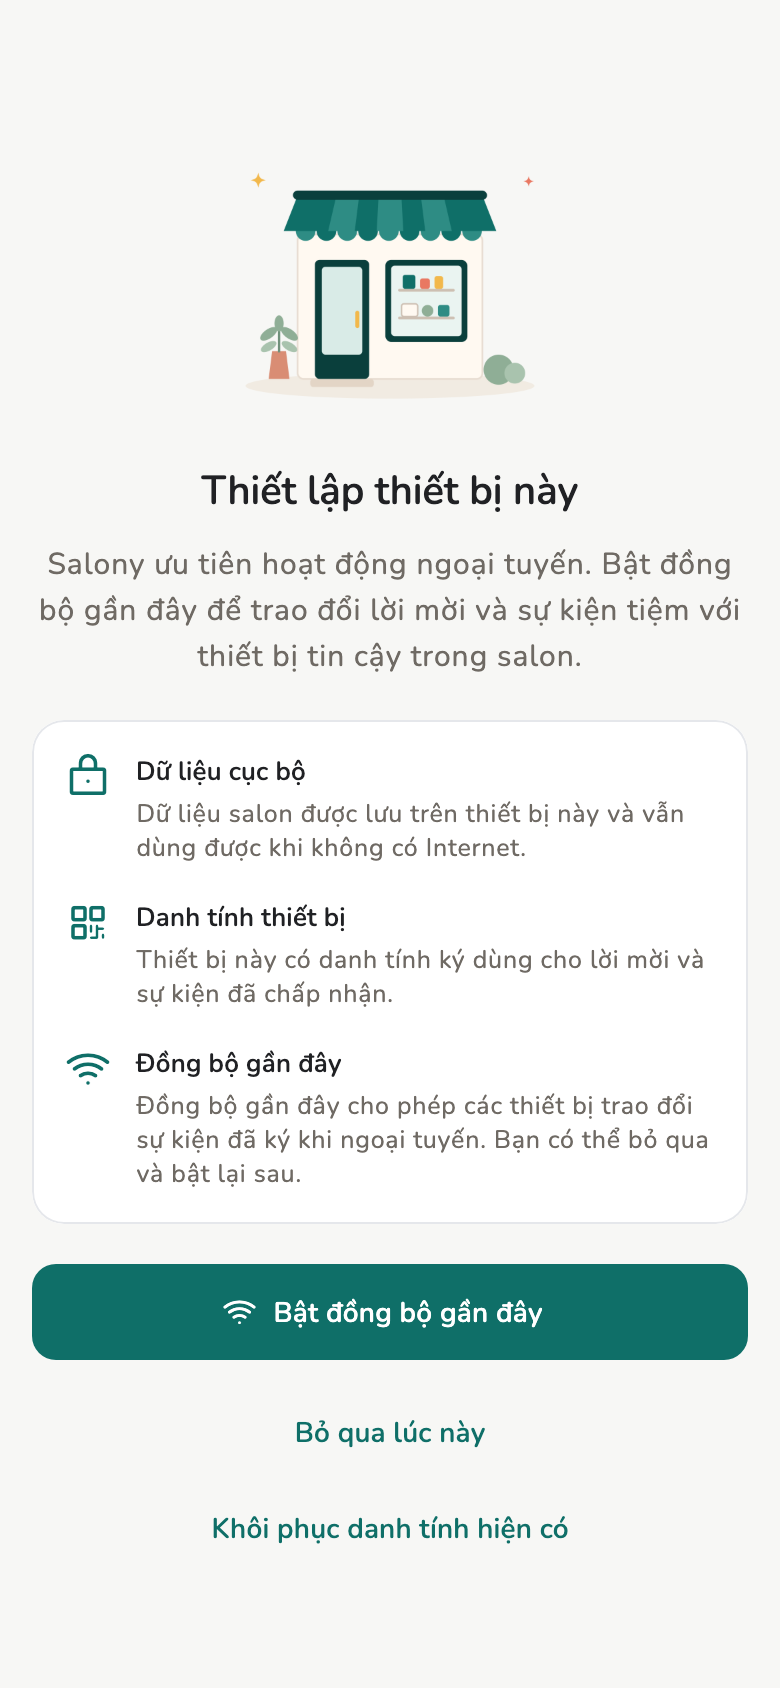
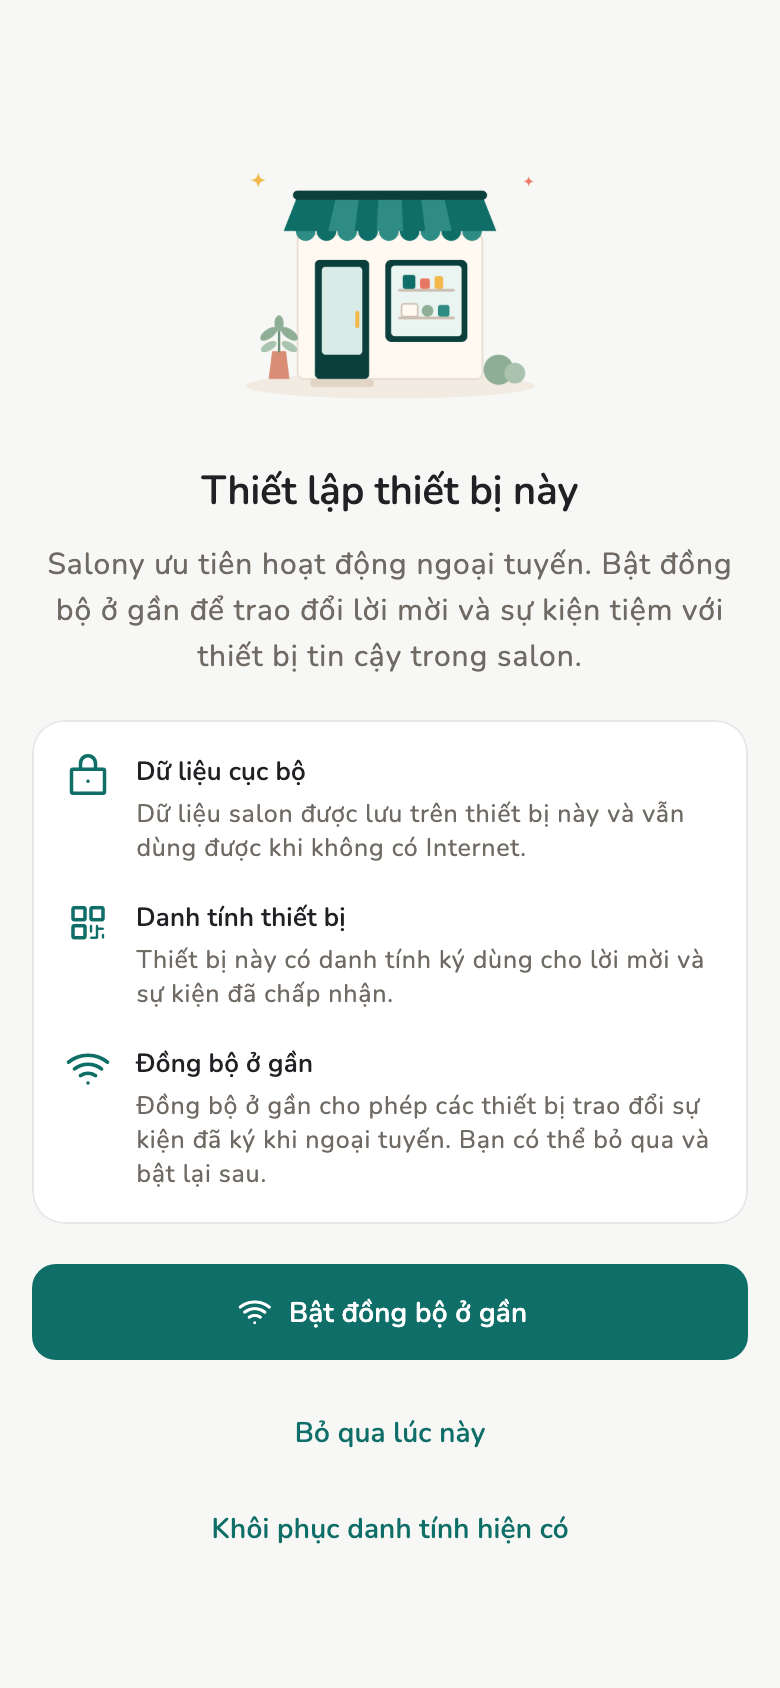
Sync handbook from salony-app@0256247f

Changed region(s): [[0.1846, 0.6161, 0.8923, 0.7085], [0.0615, 0.3389, 0.9538, 0.3697], [0.2769, 0.7701, 0.7077, 0.8009]]

diff --git a/docs/stylesheets/extra.css b/docs/stylesheets/extra.css
@@ -61,6 +61,51 @@
   max-width: 100%;
 }
 
+/* A phone shot and a wide shot in the same row belong side by side. At the
+   380px height above they measure 176px + 608px + gap = 812px, wider than
+   the content column, so the pair used to wrap and the captions stacked.
+   Share the row proportionally instead, capped at the natural size. */
+.md-typeset .shot-row:has(.shot-phone):has(.shot-wide) {
+  flex-wrap: nowrap;
+}
+
+.md-typeset .shot-row:has(.shot-phone):has(.shot-wide) figure {
+  width: auto;
+  min-width: 0;
+}
+
+.md-typeset .shot-row:has(.shot-phone):has(.shot-wide) figure > p {
+  width: 100%;
+}
+
+.md-typeset .shot-row:has(.shot-phone):has(.shot-wide) img {
+  height: auto;
+  width: 100%;
+}
+
+.md-typeset .shot-row:has(.shot-phone):has(.shot-wide) .shot-phone {
+  flex: 0 1 22%;
+  max-width: 176px;
+}
+
+.md-typeset .shot-row:has(.shot-phone):has(.shot-wide) .shot-wide {
+  flex: 0 1 78%;
+  max-width: 608px;
+}
+
+/* Below Material's mobile breakpoint there is no room for two. */
+@media screen and (max-width: 44.9375em) {
+  .md-typeset .shot-row:has(.shot-phone):has(.shot-wide) {
+    flex-wrap: wrap;
+  }
+
+  .md-typeset .shot-row:has(.shot-phone):has(.shot-wide) .shot-phone,
+  .md-typeset .shot-row:has(.shot-phone):has(.shot-wide) .shot-wide {
+    flex: 1 1 100%;
+    max-width: 100%;
+  }
+}
+
 .md-typeset .shot-phones {
   display: flex;
   flex-wrap: wrap;

diff --git a/docs/admin/backup.vi.md b/docs/admin/backup.vi.md
@@ -11,7 +11,7 @@ Máy **Nhân viên** không có các mục sao lưu này.
 <div class="shot-row" markdown>
 
 <figure class="shot-phone" markdown>
-![Sao lưu trong Cài đặt](../images/vi/light/settings-identity.png){ loading=lazy }
+![Sao lưu trong Cài đặt](../images/vi/light/settings-backup.png){ loading=lazy }
 <figcaption>Cài đặt → Sao lưu & khôi phục</figcaption>
 </figure>
 

diff --git a/docs/admin/backup.en.md b/docs/admin/backup.en.md
@@ -11,7 +11,7 @@ and that device’s data is gone. **Staff** devices do not have these rows.
 <div class="shot-row" markdown>
 
 <figure class="shot-phone" markdown>
-![Backup in Settings](../images/en/light/settings-identity.png){ loading=lazy }
+![Backup in Settings](../images/en/light/settings-backup.png){ loading=lazy }
 <figcaption>Settings → Backup & recovery</figcaption>
 </figure>
 
